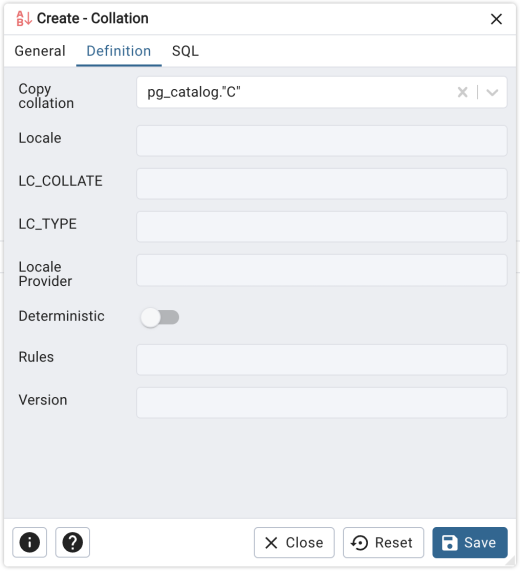
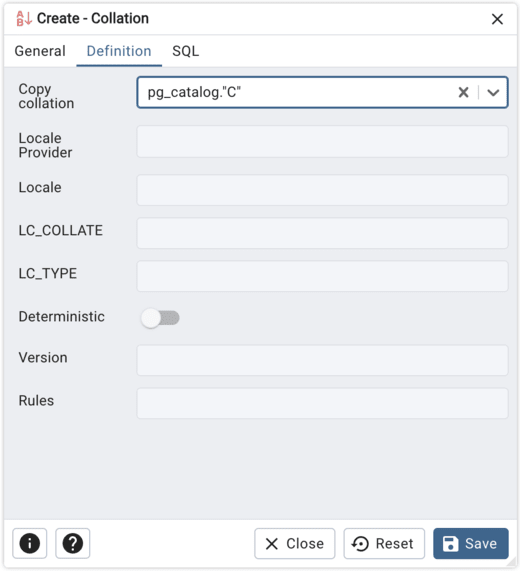
Fixed issues in create collation. #5611

diff --git a/web/pgadmin/browser/server_groups/servers/databases/schemas/collations/static/js/collation.ui.js b/web/pgadmin/browser/server_groups/servers/databases/schemas/collations/static/js/collation.ui.js
@@ -22,6 +22,8 @@ export default class CollationSchema extends BaseUISchema {
       lc_type: undefined,
       lc_collate: undefined,
       description: undefined,
+      provider: 'libc',
+      is_deterministic: true,
       schema: null,
       ...initValues
     });
@@ -84,10 +86,44 @@ export default class CollationSchema extends BaseUISchema {
         deps: ['locale', 'lc_collate', 'lc_type'],
       },
       {
+        id: 'provider', label: gettext('Locale Provider'),
+        editable: false, type: 'select',mode: ['create', 'edit'], group: gettext('Definition'),
+        readonly: function (state) { return !obj.isNew(state); },
+        options: [{
+          label: gettext('icu'),
+          value: 'icu',
+        }, {
+          label: gettext('libc'),
+          value: 'libc',
+        }],
+        min_version: 110000,
+        deps: ['copy_collation'],
+        depChange: (state)=>{
+          if (state.copy_collation)
+            return { provider: '' };
+          if (state.provider)
+            return { provider: state.provider };
+          return { provider: 'libc' };
+        },
+        disabled: function (state) {
+          return state.copy_collation;
+        }
+      },
+      {
+        id: 'provider', label: gettext('Locale Provider'),
+        type: 'text',mode: ['properties'], group: gettext('Definition'),
+        readonly: true,
+        min_version: 110000,
+      },
+      {
         id: 'locale', label: gettext('Locale'),
         type: 'text', mode: ['create', 'edit'], group: gettext('Definition'),
         readonly: function (state) { return !obj.isNew(state); },
-        deps: ['lc_collate', 'lc_type', 'copy_collation'],
+        deps: ['lc_collate', 'lc_type', 'copy_collation','provider'],
+        depChange: (state)=>{
+          if (state.lc_collate || state.lc_type)
+            return { locale: '' };
+        },
         disabled: function (state) {
           // Enable locale only if lc_* & copy_collation is not provided
           if (state.lc_collate || state.lc_type)
@@ -99,43 +135,21 @@ export default class CollationSchema extends BaseUISchema {
         id: 'lc_collate', label: gettext('LC_COLLATE'),
         type: 'text', mode: ['properties', 'create', 'edit'], group: gettext('Definition'),
         readonly: function (state) { return !obj.isNew(state); },
+        depChange: obj.depChangeFields,
         disabled: obj.disableFields,
-        deps: ['locale', 'copy_collation'],
+        deps: ['locale', 'copy_collation','provider'],
       },
       {
         id: 'lc_type', label: gettext('LC_TYPE'),
         type: 'text', mode: ['properties', 'create', 'edit'], group: gettext('Definition'),
         readonly: function (state) { return !obj.isNew(state); },
+        depChange: obj.depChangeFields,
         disabled: obj.disableFields,
-        deps: ['locale', 'copy_collation'],
-      },
-      {
-        id: 'provider', label: gettext('Locale Provider'),
-        editable: false, type: 'select',mode: ['create', 'edit'], group: gettext('Definition'),
-        readonly: function (state) { return !obj.isNew(state); },
-        options: [{
-          label: gettext('icu'),
-          value: 'icu',
-        }, {
-          label: gettext('libc'),
-          value: 'libc',
-        }],
-        min_version: 120000,
-        deps: ['copy_collation'],
-        disabled: function (state) {
-          return state.copy_collation;
-        }
-      },
-      {
-        id: 'provider', label: gettext('Locale Provider'),
-        type: 'text',mode: ['properties'], group: gettext('Definition'),
-        readonly: true,
-        min_version: 120000,
+        deps: ['locale', 'copy_collation', 'provider'],
       },
       {
         id: 'is_deterministic', label: gettext('Deterministic'),
         type: 'switch', group: gettext('Definition'),
-        default: false,
         readonly: function (state) { return !obj.isNew(state); },
         mode: ['properties', 'edit', 'create'],
         min_version: 120000,
@@ -143,33 +157,51 @@ export default class CollationSchema extends BaseUISchema {
         deps: ['copy_collation'],
         disabled: function (state) {
           return state.copy_collation;
-        }
+        },
+        depChange: (state, source, topState, actionObj)=>{
+          if (state.copy_collation) {
+            return { is_deterministic: false };
+          }
+          else {
+            if (actionObj.oldState.is_deterministic) {
+              return { is_deterministic: false };
+            } else {
+              return { is_deterministic: true };
+            }
+          }
+        },
+      },
+      {
+        id: 'version', label: gettext('Version'), type: 'text', group: gettext('Definition'),
+        readonly: function (state) { return !obj.isNew(state); },
+        mode: ['properties','create', 'edit'], min_version: 110000,
+        deps: ['copy_collation'],
+        disabled: function (state) {
+          return state.copy_collation;
+        },
+        depChange: (state)=>{
+          if (state.copy_collation)
+            return { version: '' };
+        },
       },
       {
         id: 'rules', label: gettext('Rules'),
-        editable: true, type: 'text', group: gettext('Definition'),
+        editable: false, type: 'text', group: gettext('Definition'),
         readonly: function (state) { return !obj.isNew(state); },
         mode: ['properties', 'edit', 'create'],
-        deps: ['provider','is_deterministic','copy_collation'],
+        deps: ['provider', 'copy_collation'],
         depChange: (state)=>{
+          if (state.copy_collation)
+            return { rules: '' };
           if (state.provider !== 'icu')
             return { rules: '' };
         },
         disabled: function(state) {
           if (state.copy_collation)
             return true;
-          return state.provider !== 'icu' || (state.provider == 'icu' && state.is_deterministic);
+          return state.provider !== 'icu';
         },
         min_version: 160000,
-      },
-      {
-        id: 'version', label: gettext('Version'), type: 'text', group: gettext('Definition'),
-        readonly: function (state) { return !obj.isNew(state); },
-        mode: ['properties','create', 'edit'], min_version: 120000,
-        deps: ['copy_collation'],
-        disabled: function (state) {
-          return state.copy_collation;
-        }
       },
       {
         id: 'is_sys_obj', label: gettext('System collation?'),
@@ -181,9 +213,14 @@ export default class CollationSchema extends BaseUISchema {
       }
     ];
   }
-
+  depChangeFields(state){
+    if (state.provider === 'icu')
+      return { lc_type: '' , lc_collate: '' };
+  }
   disableFields(state) {
     // Enable lc_* only if copy_collation & locale is not provided
+    if (state.provider === 'icu')
+      return true;
     if (state.locale || state.copy_collation) {
       if (state.locale)
         return true;
@@ -216,6 +253,16 @@ export default class CollationSchema extends BaseUISchema {
     }
     if (isEmptyString(state.lc_type)) {
       lc_type_flag = true;
+    }
+    if (!lc_coll_flag && lc_type_flag){
+      errmsg = gettext('Definition incomplete. Please provide LC_TYPE.');
+      setError('lc_type', errmsg);
+      return true;
+    }
+    if (!lc_type_flag && lc_coll_flag){
+      errmsg = gettext('Definition incomplete. Please provide LC_COLLATE.');
+      setError('lc_collate', errmsg);
+      return true;
     }
     if (locale_flag && (lc_coll_flag || lc_type_flag) && copy_coll_flag) {
       errmsg = gettext('Definition incomplete. Please provide Locale OR Copy Collation OR LC_TYPE/LC_COLLATE.');
